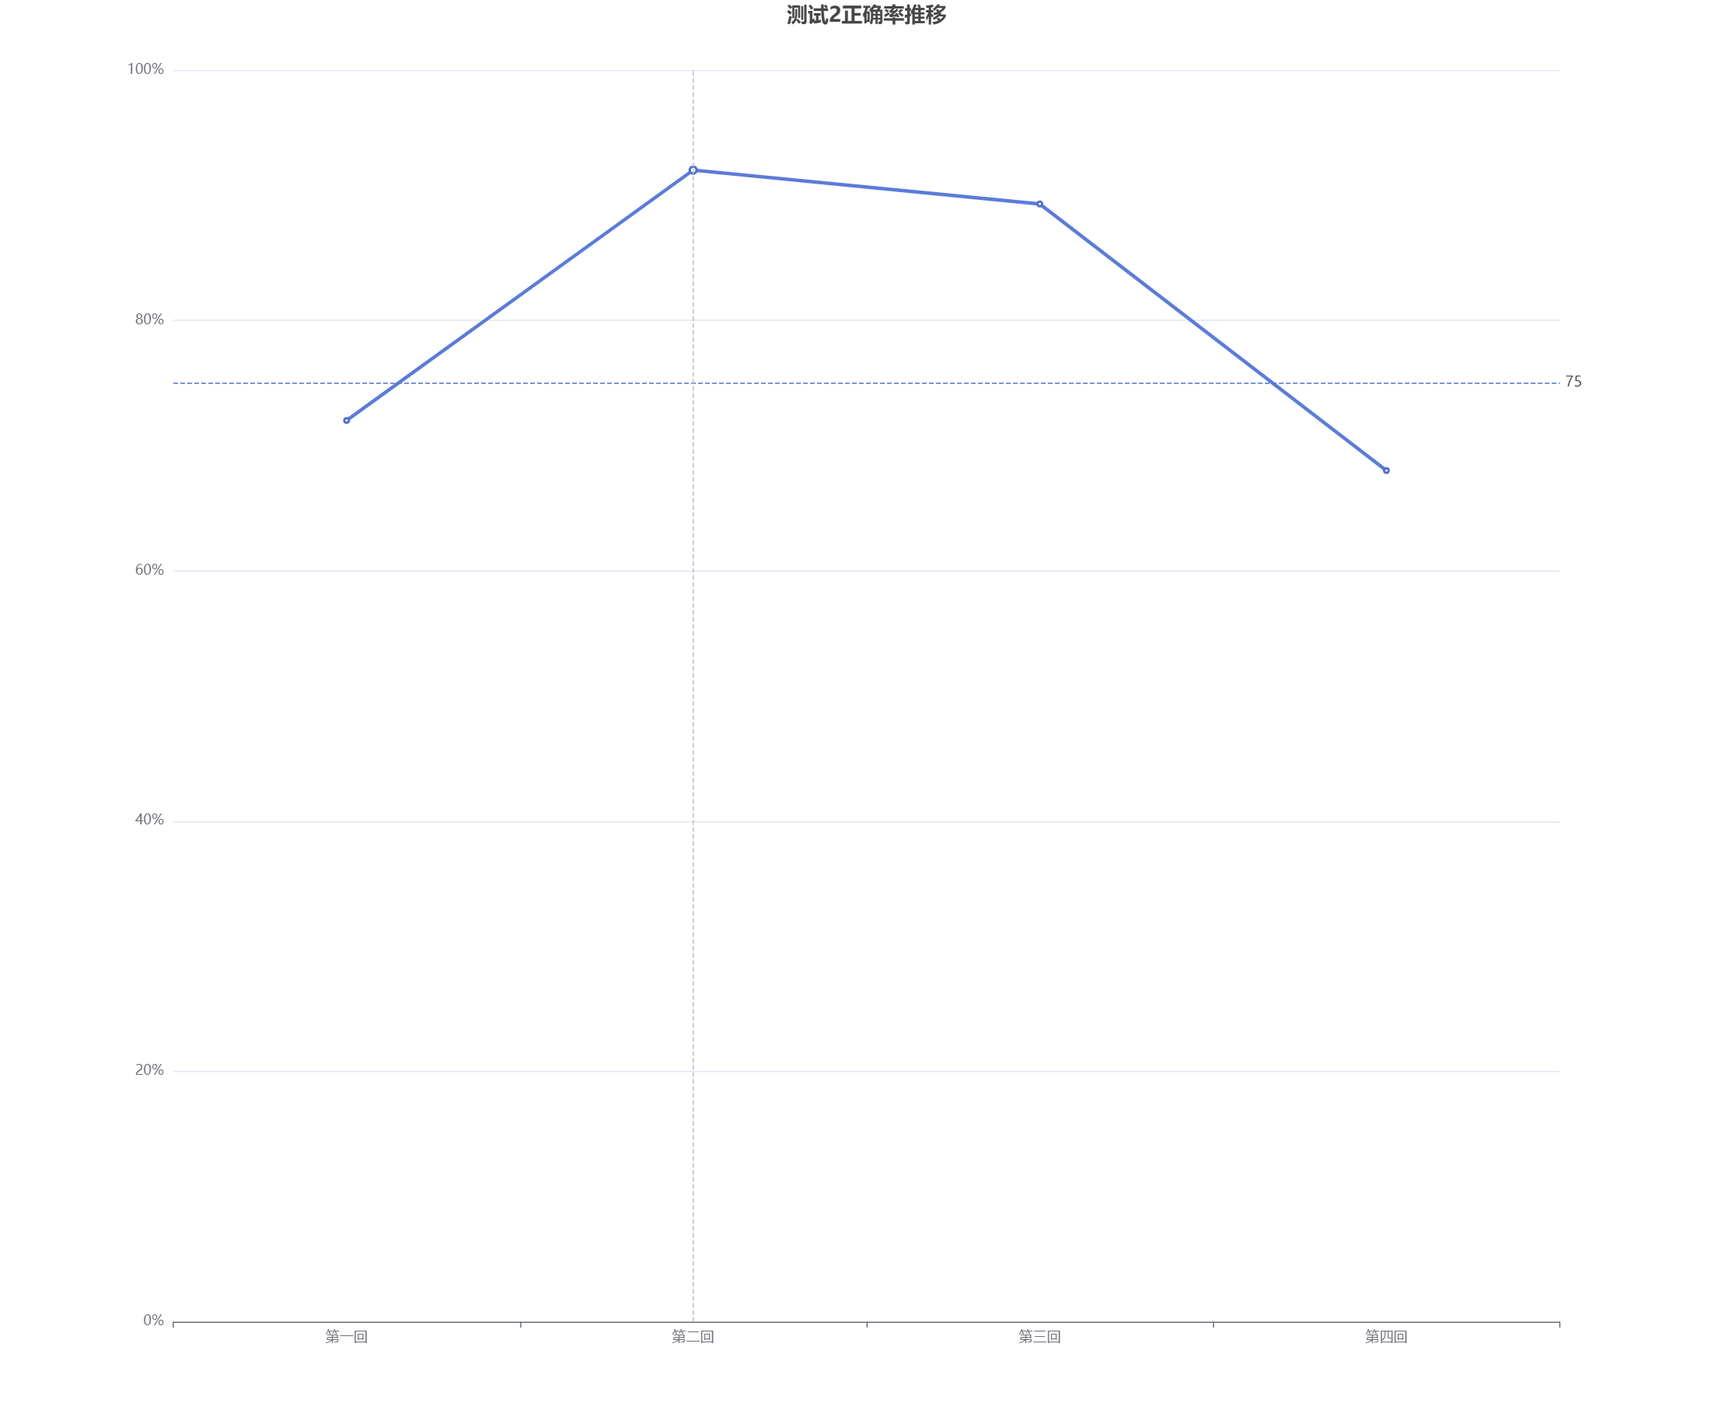
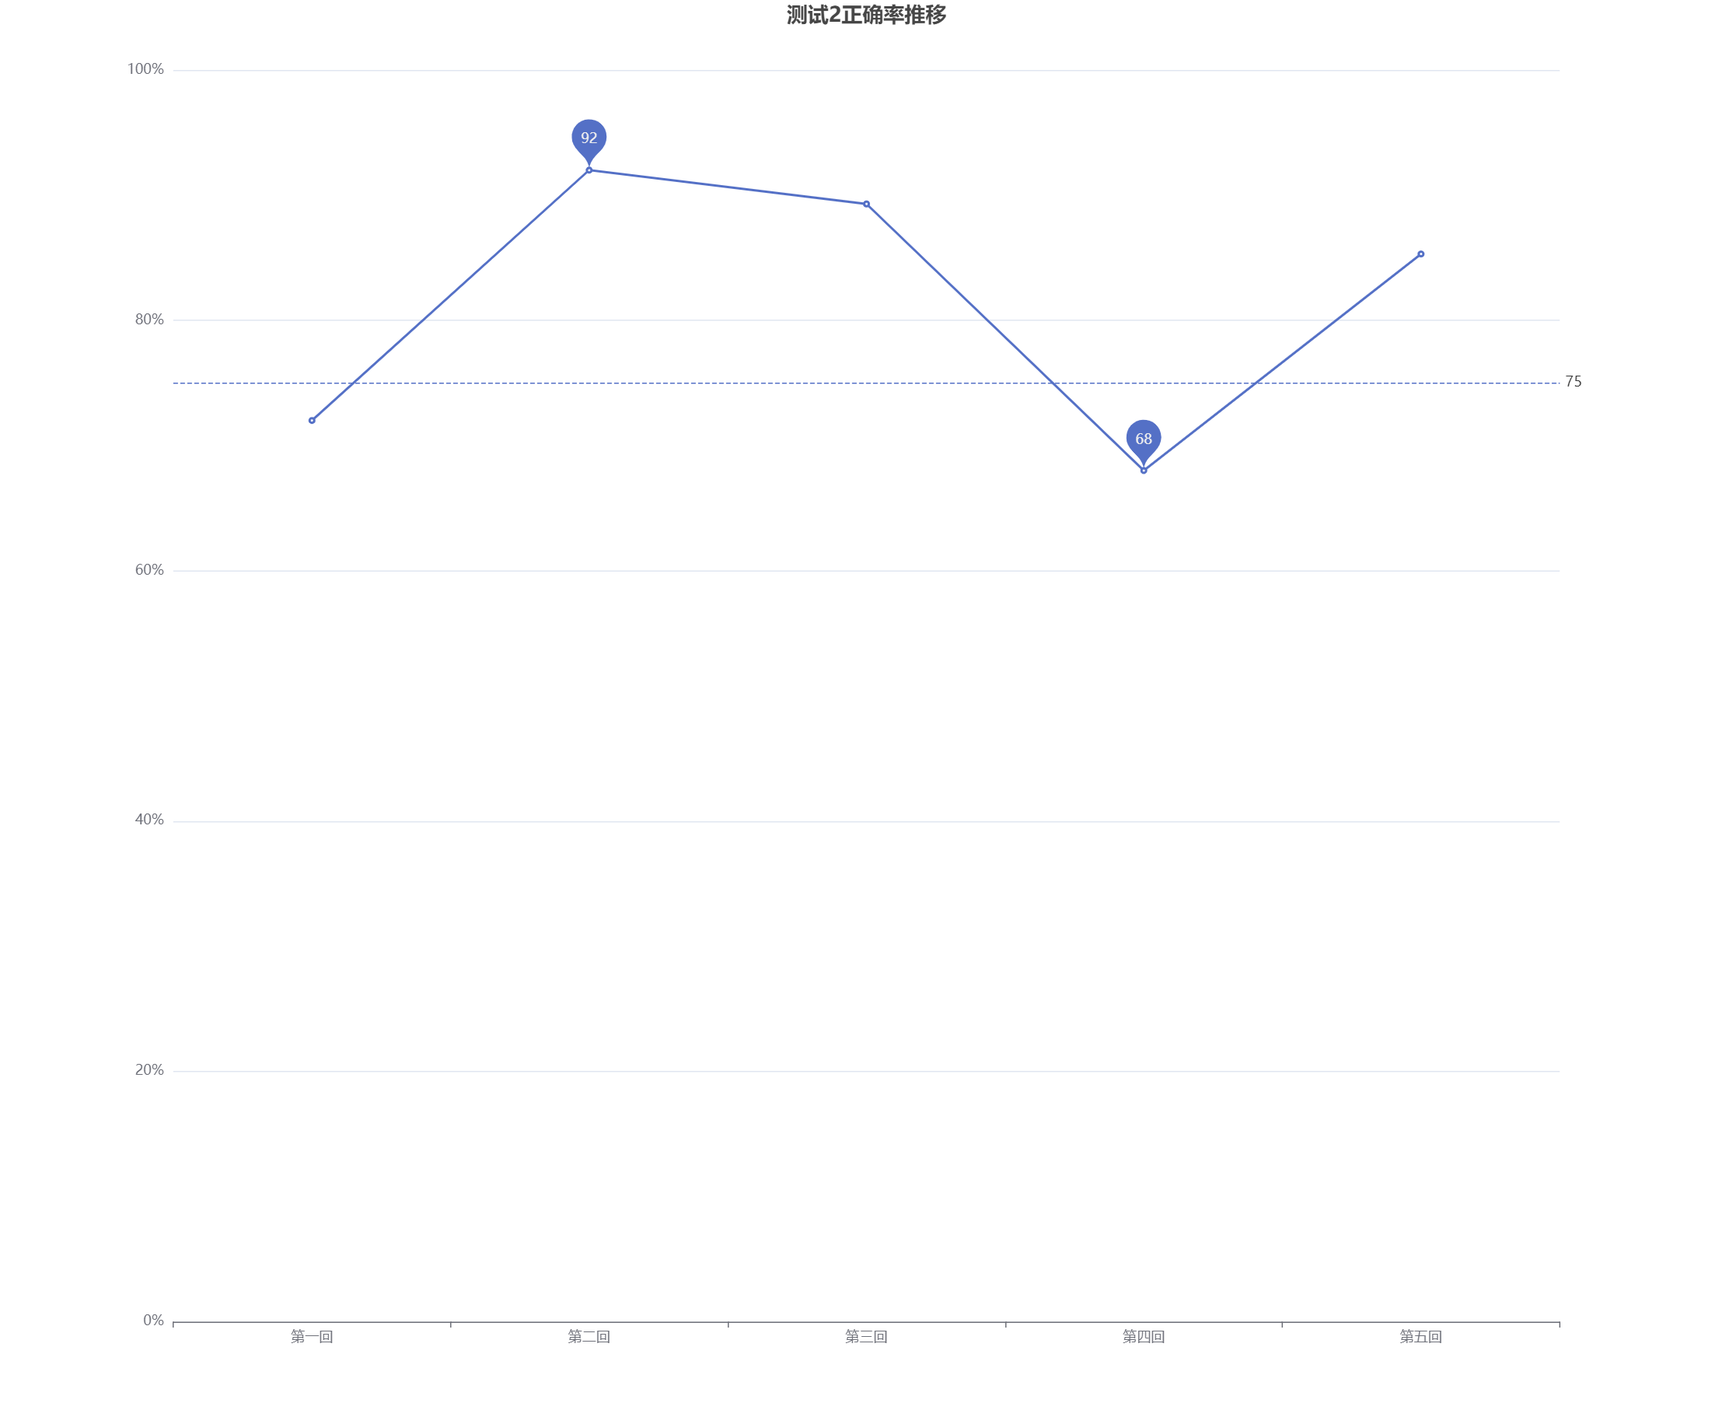
[update] up test 2 result

diff --git a/src/testReview.js b/src/testReview.js
@@ -65,9 +65,9 @@ option = {
       dimensions: ["number", "frequent"],
       source: [
         ["77", 1],
-        ["79", 2],
+        ["79", 3],
         ["81", 1],
-        ["84", 2],
+        ["84", 3],
         ["86", 1],
         ["87", 1],
         ["88", 1],
@@ -77,30 +77,34 @@ option = {
         ["96", 1],
         ["97", 2],
         ["99", 2],
-        ["102", 1],
+        ["102", 2],
         ["104", 2],
         ["105", 1],
-        ["107", 2],
+        ["107", 3],
         ["109", 4],
         ["112", 2],
         ["113", 3],
         ["116", 1],
         ["120", 1],
-        ["122", 1],
+        ["122", 2],
         ["124", 1],
         ["125", 2],
         ["126", 1],
-        ["127", 1],
+        ["128", 1],
+        ["127", 2],
         ["130", 2],
         ["131", 1],
+        ["134", 1],
         ["135", 4],
         ["136", 2],
         ["137", 1],
         ["138", 2],
+        ["139", 1],
         ["140", 2],
         ["141", 1],
+        ["143", 1],
         ["145", 3],
-        ["146", 1],
+        ["146", 2],
       ],
     },
     {

diff --git a/src/correctRate.js b/src/correctRate.js
@@ -43,7 +43,7 @@ option = {
   },
   xAxis: {
     type: "category",
-    data: ["第一回", "第二回", "第三回", "第四回"],
+    data: ["第一回", "第二回", "第三回", "第四回", "第五回"],
   },
   yAxis: {
     type: "value",
@@ -53,12 +53,18 @@ option = {
   },
   series: [
     {
-      data: [72.0, 92.0, 89.3, 68],
+      data: [72.0, 92.0, 89.3, 68, 85.3],
       type: "line",
       markLine: {
         symbol: ["none", "none"],
         label: { show: true },
         data: [{ yAxis: 75 }],
+      },
+      markPoint: {
+        data: [
+          { type: "max", name: "最大值" },
+          { type: "min", name: "最小值" },
+        ],
       },
     },
   ],

diff --git a/第2套/README.md b/第2套/README.md
@@ -93,7 +93,7 @@
    - [ ] A. Create an organization from the master account. Send invitations to the secondary accounts from the master account. Accept the invitations and create an OU.
    - [ ] B. Create an organization from the master account. Send a join request to the master account from each secondary account. Accept the requests and create an OU.
    - [ ] C. Create a VPC peering connection between the master account and the secondary accounts. Accept the request for the VPC peering connection.
-   - [ ] D. Create a service control policy (SCP) that enables full EC2 access, and attach the policy to the OUT
+   - [ ] D. Create a service control policy (SCP) that enables full EC2 access and attach the policy to the OU.
    - [ ] E. Create a full EC2 access policy and map the policy to a role in each account. Trust every other account to assume the role.
 
    <details>
@@ -117,11 +117,11 @@
 
    </details>
 
-9. A company deployed a three-tier web application in two regions:us-east-1 and eu-west-1. The application must be active in both regions at the same time. The database tier of the application uses a single Amazon RDS Aurora database globally, with a master in us-east-1 and a read replica in eu-west-1. Both regions are connected by a VPN The company wants to ensure that the application remains available even in the event of a region-level failure of all the application's components. It is acceptable for the application to be in read-only mode for up to 1 hour. The company plans to configure two Amazon Route 53 record sets, one for each of the regions. How should the company complete the configuration to meet its requirements while providing the lowest latency for the application end-users? (Choose two.)
+9. A company deployed a three-tier web application in two regions:us-east-1 and eu-west-1. The application must be active in both regions at the same time. The database tier of the application uses a single Amazon RDS Aurora database globally, with a master in us-east-1 and a read replica in eu-west-1. Both regions are connected by a VPN. The company wants to ensure that the application remains available even in the event of a region-level failure of all the application's components. It is acceptable for the application to be in read-only mode for up to 1 hour. The company plans to configure two Amazon Route 53 record sets, one for each of the regions. How should the company complete the configuration to meet its requirements while providing the lowest latency for the application end-users? (Choose two.)
    - [ ] A. Use failover routing and configure the us-east-1 record set as primary and the eu-west-1 record set as secondary. Configure an HTTP health check for the web application in us-east-1 and associate it to the us-east-1 record set.
    - [ ] B. Use weighted routing and configure each record set with a weight of 50. Configure an HTTP health check for each region and attach it to the record set for that region.
    - [ ] C. Use latency-based routing for both record sets. Configure a health check for each region and attach it to the record set for that region.
-   - [ ] D. Configure an Amazon CloudWatch alarm for the health checks in us-east-1, and have it invoke an AWS Lambda function that promotes the read replica in eu-west-1.
+   - [ ] D. Configure an Amazon CloudWatch alarm for the health checks in us-east-1, and have it invoked an AWS Lambda function that promotes the read replica in eu-west-1.
    - [ ] E. Configure an Amazon RDS event notifications to react to the failure of the database in us-east-1 by invoking an AWS Lambda function that promotes the read replica in eu-west-1.
 
    <details>
@@ -213,7 +213,7 @@
     - [ ] A. Store forecast locations in an Amazon ES cluster. Use an Amazon CloudFront distribution targeting an Amazon API Gateway endpoint with AWS Lambda functions responding to queries as the origin. Enable API caching on the API Gateway stage with a cache-control timeout set for 15 minutes.
     - [ ] B. Store forecast locations in an Amazon EFS volume. Create an Amazon CloudFront distribution that targets an Elastic Load Balancing group of an Auto Scaling fleet of Amazon EC2 instances that have mounted the Amazon EFS volume. Set the set cache-control timeout for 15 minutes in the CloudFront distribution.
     - [ ] C. Store forecast locations in an Amazon ES cluster. Use an Amazon CloudFront distribution targeting an API Gateway endpoint with AWS Lambda functions responding to queries as the origin. Create an Amazon Lambda@Edge function that caches the data locally at edge locations for 15 minutes.
-    - [ ] D. Store forecast locations in an Amazon S3 as individual objects. Create an Amazon CloudFront distribution targeting an Elastic Load Balancing group of an Auto Scaling fleet ofEC2 instances, querying the origin of the S3 object. Set the cache-control timeout for 15 minutes in the 3CloudFront distribution.
+    - [ ] D. Store forecast locations in an Amazon S3 as individual objects. Create an Amazon CloudFront distribution targeting an Elastic Load Balancing group of an Auto Scaling fleet of EC2 instances, querying the origin of the S3 object. Set the cache-control timeout for 15 minutes in the CloudFront distribution.
 
     <details>
        <summary>Answer</summary>
@@ -402,9 +402,9 @@
 
     </details>
 
-28. A company has been using a third-party provider for its content delivery network and recently decided to switch to Amazon CloudFront the Development team wants to maximize performance for the global user base. The company uses a content management system (CMS) that serves both static and dynamic content. The CMS is both md an Application Load Balancer (ALB) which is set as the default origin for the distribution. Static assets are sewed from an Amazon S3 bucket. The Origin Access Identity (OAI) was created property d the S3 bucket policy has been updated to allow the `GetObject` action from the OAI, but static assets are receiving a 404 error. Which combination of steps should the Solutions Architect take to fix the error? (Select TWO.)
+28. A company has been using a third-party provider for its content delivery network and recently decided to switch to Amazon CloudFront. The Development team wants to maximize performance for the global user base. The company uses a content management system (CMS) that serves both static and dynamic content. The CMS is behind an Application Load Balancer (ALB) which is set as the default origin for the distribution. Static assets are served from an Amazon S3 bucket. The Origin Access Identity (OAI) was created property and the S3 bucket policy has been updated to allow the `GetObject` action from the OAI, but static assets are receiving a 404 error. Which combination of steps should the Solutions Architect take to fix the error? (Select TWO.)
     - [ ] A. Add another origin to the CloudFront distribution for the static assets.
-    - [ ] B. Add a path based rule to the ALB to forward requests for the static assets.
+    - [ ] B. Add a path-based rule to the ALB to forward requests for the static assets.
     - [ ] C. Add an RTMP distribution to allow caching of both static and dynamic content.
     - [ ] D. Add a behavior to the CloudFront distribution for the path pattern and the origin of the static assets.
     - [ ] E. Add a host header condition to the ALB listener and forward the header from CloudFront to add traffic to the allow list.
@@ -565,7 +565,7 @@
     - [ ] A. Configure read replicas for Amazon RDS MySQL and use the single reader endpoint in the web application to reduce the load on the backend database tier.
     - [ ] B. Configure the target group health check to point at a simple HTML page instead of a product catalog page and the Amazon Route 53 health check against the product page to evaluate full application functionality. Configure Amazon CloudWatch alarms to notify administrators when the site fails.
     - [ ] C. Configure the target group health check to use a TCP check of the Amazon EC2 web server and the Amazon Route 53 health check against the product page to evaluate full application functionality. Configure Amazon CloudWatch alarms to notify administrators when the site fails.
-    - [ ] D. Configure an Amazon CloudWatch alarm for Amazon RDS with an action to recover a igh-load, impaired RDS instance in the database tier.
+    - [ ] D. Configure an Amazon CloudWatch alarm for Amazon RDS with an action to recover a high-load, impaired RDS instance in the database tier.
     - [ ] E. Configure an Amazon ElastiCache cluster and place it between the web application and RDS MySQL instances to reduce the load on the backend database tier.
 
     <details>

diff --git a/高频错题集/README.md b/高频错题集/README.md
@@ -673,3 +673,43 @@
        第511题，答案C。
 
     </details>
+
+51. A company has a High-Performance Computing (HPC) cluster in its on-premises data center which runs thousands of jobs in parallel for one week every month, processing petabytes of images. The images are stored on a network file server, which is replicated to a disaster recovery site. The on-premises data center has reached capacity and has started to spread the jobs out over the course of month to better utilize the cluster, causing a delay in the job completion. The company has asked its Solutions Architect to design a cost-effective solution on AWS to scale beyond the current capacity of 5,000 cores and 10 petabytes of data. The solution must require the least amount of management overhead and maintain the current level of durability. Which solution will meet the company's requirements?
+    - [ ] A. Create a container in the Amazon Elastic Container Registry with the executable file for the job. Use Amazon ECS with Spot Fleet in Auto Scaling groups. Store the raw data in Amazon EBS SCI volumes and write the output to Amazon S3.
+    - [ ] B. Create an Amazon EMR cluster with a combination of On Demand and Reserved Instance Task Nodes that will use Spark to pull data from Amazon S3. Use Amazon DynamoDB to maintain a list of jobs that need to be processed by the Amazon EMR cluster.
+    - [ ] C. Store the raw data in Amazon S3, and use AWS Batch with Managed Compute Environments to create Spot Fleets. Submit jobs to AWS Batch Job Queues to pull down objects from Amazon S3 onto Amazon EBS volumes for temporary storage to be processed, and then write the results back to Amazon S3.
+    - [ ] D. Submit the list of jobs to be processed to an Amazon SQS to queue the jobs that need to be processed. Create a diversified cluster of Amazon EC2 worker instances using Spot Fleet that will automatically scale based on the queue depth. Use Amazon EFS to store all the data sharing it across all instances in the cluster.
+
+    <details>
+       <summary>Answer</summary>
+
+       第79题，答案C。
+
+    </details>
+
+52. A finance company is running its business-critical application on current-generation Linux EC2 instances. The application includes a self-managed MySQL database performing heavy I/O operations. The application is working fine to handle a moderate amount of traffic during the month. However, it slows down during the final three days of each month due to month-end reporting, even though the company is using Elastic Load Balancers and Auto Scaling within its infrastructure to meet the increased demand. Which of the following actions would allow the database to handle the month-end load with the LEAST impact on performance?
+    - [ ] A. Pre-warming Elastic Load Balancers, using a bigger instance type, changing all Amazon EBS volumes to GP2 volumes.
+    - [ ] B. Performing a one-time migration of the database cluster to Amazon RDS, and creating several additional read replicas to handle the load during end of month.
+    - [ ] C. Using Amazon CloudWatch with AWS Lambda to change the type, size, or IOPS of Amazon EBS volumes in the cluster based on a specific CloudWatch metric.
+    - [ ] D. Replacing all existing Amazon EBS volumes with new PIOPS volumes that have the maximum available storage size and I/O per second by taking snapshots before the end of the month and reverting back afterwards.
+
+    <details>
+       <summary>Answer</summary>
+
+       第84题，答案D。
+
+    </details>
+
+53. A Solutions Architect is designing a multi-account structure that has 10 existing accounts. The design must meet the following requirements: -Consolidate all accounts into one organization. -Allow full access to the Amazon EC2 service from the master account and the secondary accounts. -Minimize the effort required to add additional secondary accounts. Which combination of steps should be included in the solution? (Choose two.)
+    - [ ] A. Create an organization from the master account. Send invitations to the secondary accounts from the master account. Accept the invitations and create an OU.
+    - [ ] B. Create an organization from the master account. Send a join request to the master account from each secondary account. Accept the requests and create an OU.
+    - [ ] C. Create a VPC peering connection between the master account and the secondary accounts. Accept the request for the VPC peering connection.
+    - [ ] D. Create a service control policy (SCP) that enables full EC2 access and attach the policy to the OU.
+    - [ ] E. Create a full EC2 access policy and map the policy to a role in each account. Trust every other account to assume the role.
+
+    <details>
+       <summary>Answer</summary>
+
+       第107题，答案AD。
+
+    </details>

diff --git a/第1套/README.md b/第1套/README.md
@@ -1357,7 +1357,7 @@
 
     </details>
 
-91. The Security team needs to provide a team of interns with an AWS environment so they can build the serverless video transcoding application. The project will use Amazon S3, AWS Lambda, Amazon API Gateway, Amazon Cognito, Amazon DynamoDB, and Amazon Elastic Trans. The interns should be able to create and configure the necessary resources, but they may not have access to create or modify AWS IAM roles. The Solutions Architect creates a policy and attaches it to the interns' group. How should the Security team configure the environment to ensure that the interns are self-sufficient?
+91. The Security team needs to provide a team of interns with an AWS environment so they can build the serverless video transcoding application. The project will use Amazon S3, AWS Lambda, Amazon API Gateway, Amazon Cognito, Amazon DynamoDB, and Amazon Elastic Transcoder. The interns should be able to create and configure the necessary resources, but they may not have access to create or modify AWS IAM roles. The Solutions Architect creates a policy and attaches it to the interns' group. How should the Security team configure the environment to ensure that the interns are self-sufficient?
     - [ ] A. Create a policy that allows creation of project-related resources only. Create roles with required service permissions, which are assumable by the services.
     - [ ] B. Create a policy that allows creation of all project-related resources, including roles that allow access only to specified resources.
     - [ ] C. Create roles with the required service permissions, which are assumable by the services. Have the interns create and use a bastion host to create the project resources in the project subnet only.
@@ -1417,10 +1417,10 @@
     </details>
 
 95. A company has an application behind a load balancer with enough Amazon EC2 instances to satisfy peak demand. Scripts and third-party deployment solutions are used to configure EC2 instances when demand increases, or an instance fails. The team must periodically evaluate the utilization of the instance types to ensure that the correct sizes are deployed. How can this workload be optimized to meet these requirements?
-    - [ ] A. Use CloudFormer to create AWS CloudFormation stacks from the current resources. Deploy that stack by using AWS CloudFormation in the same region. Use Amazon CloudWatch alarms to send notifications about underutilized resources to provide cost-savings suggestions.
-    - [ ] B. Create an Auto Scaling group to scale the instances, and use AWS CodeDeploy to perform the configuration. Change from a load balancer to an Application Load Balancer. Purchase a third-party product that provides suggestions for cost savings on AWS resources.
+    - [ ] A. Use CloudFormation to create AWS CloudFormation stacks from the current resources. Deploy that stack by using AWS CloudFormation in the same region. Use Amazon CloudWatch alarms to send notifications about underutilized resources to provide cost-savings suggestions.
+    - [ ] B. Create an Auto Scaling group to scale the instances and use AWS CodeDeploy to perform the configuration. Change from a load balancer to an Application Load Balancer. Purchase a third-party product that provides suggestions for cost savings on AWS resources.
     - [ ] C. Deploy the application by using AWS Elastic Beanstalk with default options. Register for an AWS Support Developer plan. Review the instance usage for the application by using Amazon CloudWatch and identify less expensive instances that can handle the load. Hold monthly meetings to review new instance types and determine whether Reserved instances should be purchased.
-    - [ ] D. Deploy the application as a Docker image by using Amazon ECS. Set up Amazon EC2 Auto Scaling and Amazon ECS scaling. Register for AWS Business Supp AWS Business Support and use Trusted Advisor checks to provide suggestions on cost savings.
+    - [ ] D. Deploy the application as a Docker image by using Amazon ECS. Set up Amazon EC2 Auto Scaling and Amazon ECS scaling. Register for AWS Business Support and use Trusted Advisor checks to provide suggestions on cost savings.
 
     <details>
        <summary>Answer</summary>
